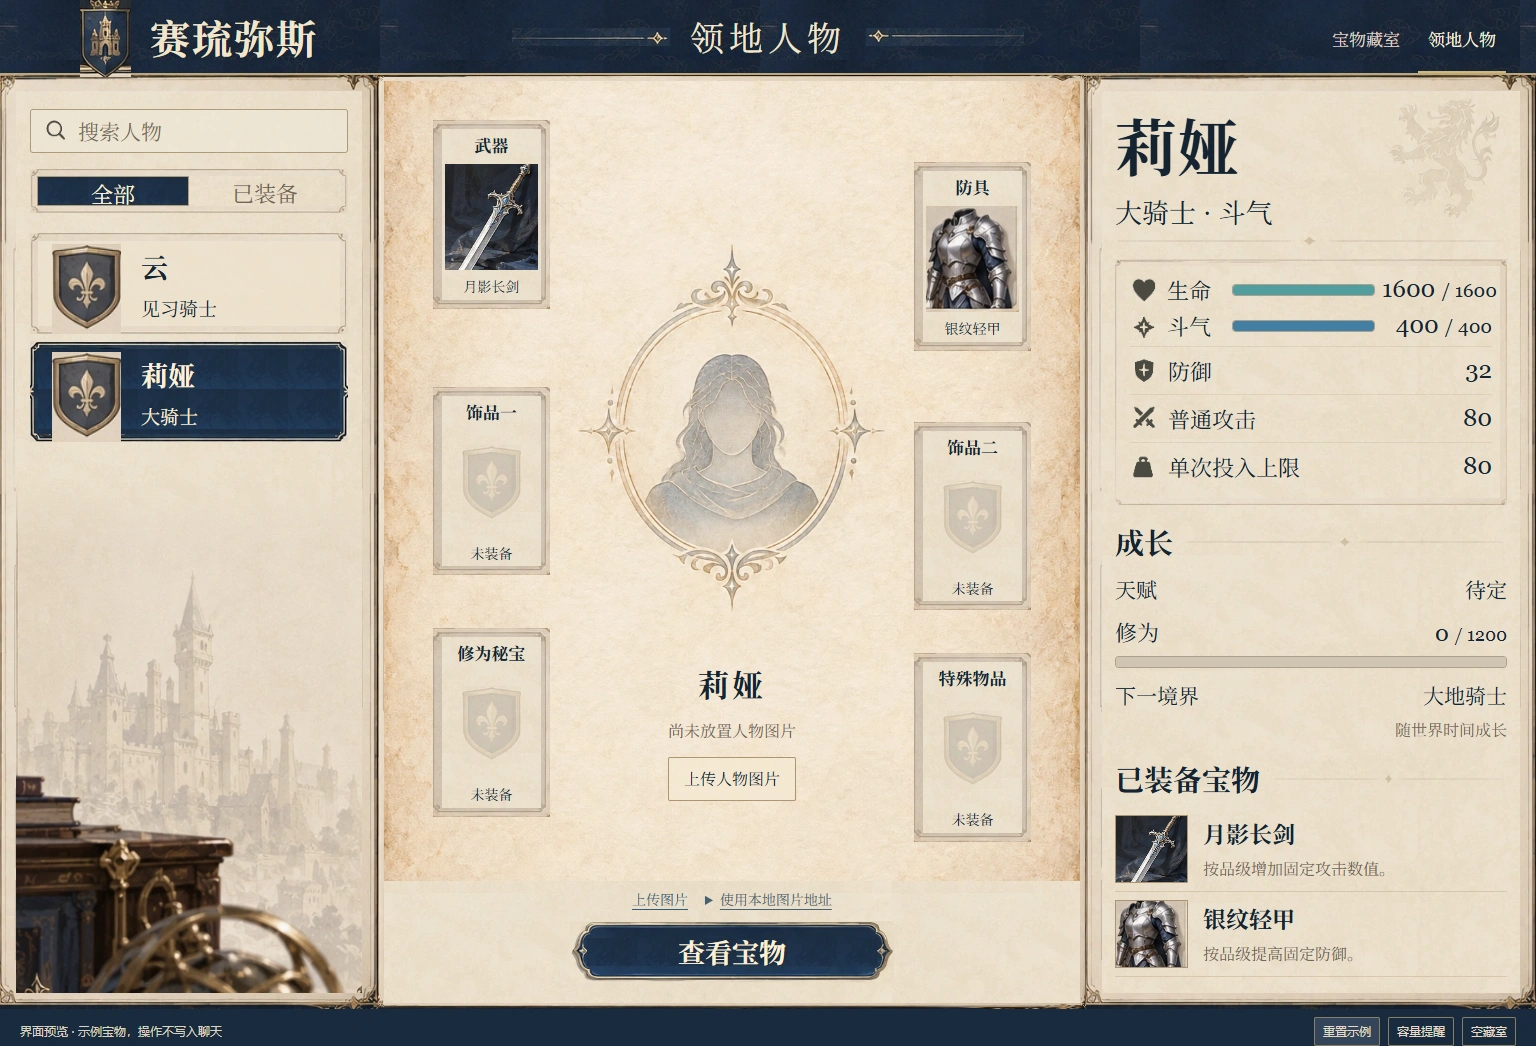
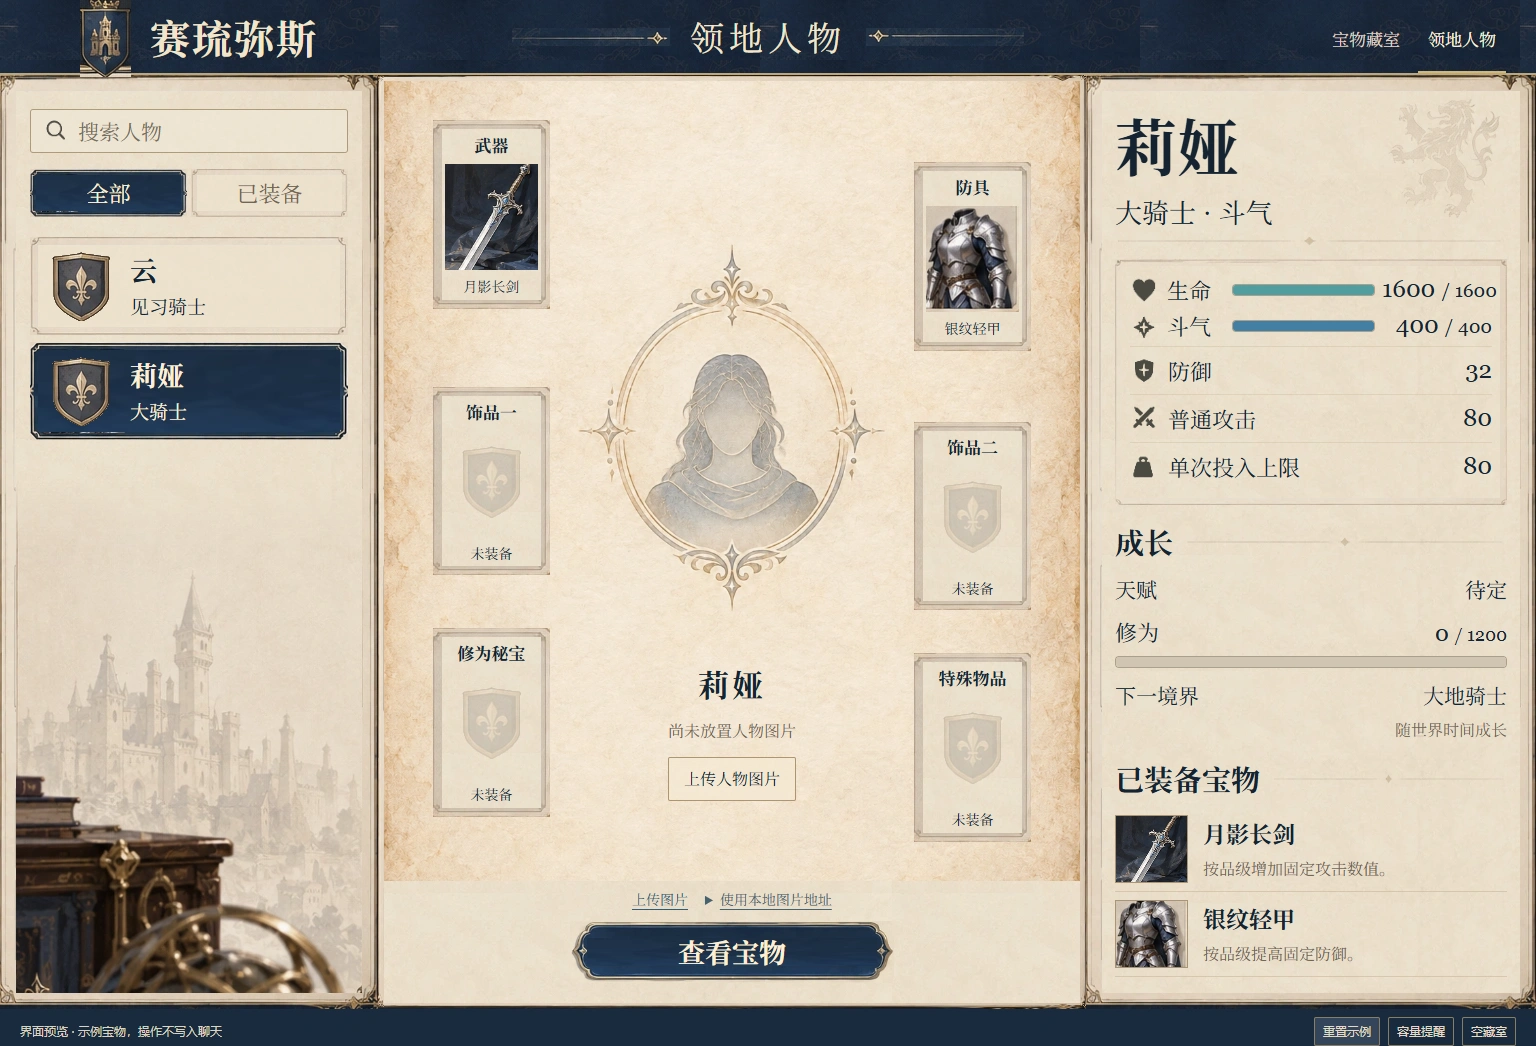
Fix roster selection frames and recipient text clipping

Changed region(s): [[0.0, 0.153, 0.2188, 0.4283]]

diff --git a/dist/角色卡玩法规则包/界面/人物与宝物/style.css b/dist/角色卡玩法规则包/界面/人物与宝物/style.css
@@ -534,8 +534,10 @@ a {
 }
 .item-actions select {
   width: 100%;
-  height: calc(59 * var(--u));
+  height: auto;
   font-size: calc(24 * var(--u));
+  line-height: 1.4;
+  padding-block: calc(12 * var(--u));
   padding-left: calc(56 * var(--u));
   background: #f0e6d2b3 url('./assets/icon-person.webp') calc(16 * var(--u)) center/calc(30 * var(--u)) auto no-repeat;
   margin-bottom: calc(5 * var(--u));
@@ -543,7 +545,7 @@ a {
 .ornate-button {
   border: calc(21 * var(--u)) solid transparent;
   border-image: url('./assets/button-frame.webp') 23 stretch;
-  background: #213c53 url('./assets/blue-button.webp') repeat;
+  background: #213c53 url('./assets/blue-button.webp') center / 100% 100% no-repeat;
   color: #fff0d5;
   font-size: calc(30 * var(--u));
   line-height: 1.05;
@@ -672,25 +674,30 @@ a {
   background-position: calc(13 * var(--u)) center;
 }
 .roster-tabs {
-  display: flex;
+  display: grid;
+  grid-template-columns: repeat(2, minmax(0, 1fr));
+  gap: calc(4 * var(--u));
   margin: calc(16 * var(--u)) 0 calc(20 * var(--u));
-  border: 7px solid transparent;
-  border-image: url('./assets/roster-frame.webp') 8 stretch;
 }
 .roster-tabs button {
-  width: 50%;
-  background: transparent;
+  display: grid;
+  place-items: center;
+  padding: calc(5 * var(--u)) calc(8 * var(--u));
+  border: calc(6 * var(--u)) solid transparent;
+  border-image: url('./assets/roster-frame.webp') 8 stretch;
+  background: #eee3cf99;
   color: var(--muted);
   font-size: calc(22 * var(--u));
-  height: calc(30 * var(--u));
+  line-height: 1.2;
 }
 .roster-tabs button[aria-pressed='true'] {
-  background: #314859 url('./assets/blue-button.webp') repeat;
+  background: #314859 url('./assets/blue-button.webp') center / 100% 100% no-repeat;
   color: #fff0d5;
-  border: 1px solid #b29a72;
+  border-image-source: url('./assets/row-frame.webp');
 }
 .person-row {
-  display: flex;
+  display: grid;
+  grid-template-columns: calc(58 * var(--u)) minmax(0, 1fr);
   align-items: center;
   gap: calc(20 * var(--u));
   width: 100%;
@@ -700,19 +707,18 @@ a {
   background: #eee3cf99;
   margin: 0 0 calc(7 * var(--u));
   padding: calc(6 * var(--u)) calc(14 * var(--u));
-  height: calc(101 * var(--u));
 }
 .person-row.active {
-  background: #294358 url('./assets/blue-button.webp') repeat;
+  background: #294358 url('./assets/blue-button.webp') center / 100% 100% no-repeat;
   color: #ffefd5;
   border-image: url('./assets/row-frame.webp') 8 stretch;
 }
 .person-avatar {
   display: grid;
   place-items: center;
-  width: calc(69 * var(--u));
-  height: calc(80 * var(--u));
-  flex: none;
+  width: 100%;
+  aspect-ratio: 58 / 70;
+  overflow: hidden;
 }
 .person-avatar img {
   width: 100%;
@@ -726,11 +732,13 @@ a {
 .person-row strong {
   display: block;
   font-size: calc(27 * var(--u));
-  margin-bottom: 8px;
+  margin-bottom: calc(8 * var(--u));
+  line-height: 1.2;
 }
 .person-row small {
   display: block;
   font-size: calc(19 * var(--u));
+  line-height: 1.3;
 }
 .roster-empty {
   font-size: 15px;
@@ -1429,7 +1437,7 @@ progress::-moz-progress-bar {
     font-size: 21px;
   }
   .item-actions select {
-    height: 52px;
+    padding-block: 10px;
     padding-left: 48px;
     background-position: 13px center;
     background-size: 26px auto;
@@ -1480,22 +1488,22 @@ progress::-moz-progress-bar {
   .roster-tabs {
     grid-column: 1/-1;
     margin: 4px 0;
-    border-width: 6px;
+    gap: 6px;
   }
   .roster-tabs button {
     font-size: 17px;
-    height: 27px;
+    padding: 7px;
+    border-width: 6px;
   }
   .person-row {
-    height: 80px;
-    padding: 4px 5px;
+    grid-template-columns: 40px minmax(0, 1fr);
+    padding: 9px 5px;
     border-width: 7px;
     gap: 10px;
     margin: 0;
   }
   .person-avatar {
     width: 40px;
-    height: 57px;
   }
   .person-row strong {
     font-size: 23px;

diff --git a/赛琉弥斯角色卡/src/角色卡玩法规则包/界面/人物与宝物/style.css b/赛琉弥斯角色卡/src/角色卡玩法规则包/界面/人物与宝物/style.css
@@ -534,8 +534,10 @@ a {
 }
 .item-actions select {
   width: 100%;
-  height: calc(59 * var(--u));
+  height: auto;
   font-size: calc(24 * var(--u));
+  line-height: 1.4;
+  padding-block: calc(12 * var(--u));
   padding-left: calc(56 * var(--u));
   background: #f0e6d2b3 url('./assets/icon-person.webp') calc(16 * var(--u)) center/calc(30 * var(--u)) auto no-repeat;
   margin-bottom: calc(5 * var(--u));
@@ -543,7 +545,7 @@ a {
 .ornate-button {
   border: calc(21 * var(--u)) solid transparent;
   border-image: url('./assets/button-frame.webp') 23 stretch;
-  background: #213c53 url('./assets/blue-button.webp') repeat;
+  background: #213c53 url('./assets/blue-button.webp') center / 100% 100% no-repeat;
   color: #fff0d5;
   font-size: calc(30 * var(--u));
   line-height: 1.05;
@@ -672,25 +674,30 @@ a {
   background-position: calc(13 * var(--u)) center;
 }
 .roster-tabs {
-  display: flex;
+  display: grid;
+  grid-template-columns: repeat(2, minmax(0, 1fr));
+  gap: calc(4 * var(--u));
   margin: calc(16 * var(--u)) 0 calc(20 * var(--u));
-  border: 7px solid transparent;
-  border-image: url('./assets/roster-frame.webp') 8 stretch;
 }
 .roster-tabs button {
-  width: 50%;
-  background: transparent;
+  display: grid;
+  place-items: center;
+  padding: calc(5 * var(--u)) calc(8 * var(--u));
+  border: calc(6 * var(--u)) solid transparent;
+  border-image: url('./assets/roster-frame.webp') 8 stretch;
+  background: #eee3cf99;
   color: var(--muted);
   font-size: calc(22 * var(--u));
-  height: calc(30 * var(--u));
+  line-height: 1.2;
 }
 .roster-tabs button[aria-pressed='true'] {
-  background: #314859 url('./assets/blue-button.webp') repeat;
+  background: #314859 url('./assets/blue-button.webp') center / 100% 100% no-repeat;
   color: #fff0d5;
-  border: 1px solid #b29a72;
+  border-image-source: url('./assets/row-frame.webp');
 }
 .person-row {
-  display: flex;
+  display: grid;
+  grid-template-columns: calc(58 * var(--u)) minmax(0, 1fr);
   align-items: center;
   gap: calc(20 * var(--u));
   width: 100%;
@@ -700,19 +707,18 @@ a {
   background: #eee3cf99;
   margin: 0 0 calc(7 * var(--u));
   padding: calc(6 * var(--u)) calc(14 * var(--u));
-  height: calc(101 * var(--u));
 }
 .person-row.active {
-  background: #294358 url('./assets/blue-button.webp') repeat;
+  background: #294358 url('./assets/blue-button.webp') center / 100% 100% no-repeat;
   color: #ffefd5;
   border-image: url('./assets/row-frame.webp') 8 stretch;
 }
 .person-avatar {
   display: grid;
   place-items: center;
-  width: calc(69 * var(--u));
-  height: calc(80 * var(--u));
-  flex: none;
+  width: 100%;
+  aspect-ratio: 58 / 70;
+  overflow: hidden;
 }
 .person-avatar img {
   width: 100%;
@@ -726,11 +732,13 @@ a {
 .person-row strong {
   display: block;
   font-size: calc(27 * var(--u));
-  margin-bottom: 8px;
+  margin-bottom: calc(8 * var(--u));
+  line-height: 1.2;
 }
 .person-row small {
   display: block;
   font-size: calc(19 * var(--u));
+  line-height: 1.3;
 }
 .roster-empty {
   font-size: 15px;
@@ -1429,7 +1437,7 @@ progress::-moz-progress-bar {
     font-size: 21px;
   }
   .item-actions select {
-    height: 52px;
+    padding-block: 10px;
     padding-left: 48px;
     background-position: 13px center;
     background-size: 26px auto;
@@ -1480,22 +1488,22 @@ progress::-moz-progress-bar {
   .roster-tabs {
     grid-column: 1/-1;
     margin: 4px 0;
-    border-width: 6px;
+    gap: 6px;
   }
   .roster-tabs button {
     font-size: 17px;
-    height: 27px;
+    padding: 7px;
+    border-width: 6px;
   }
   .person-row {
-    height: 80px;
-    padding: 4px 5px;
+    grid-template-columns: 40px minmax(0, 1fr);
+    padding: 9px 5px;
     border-width: 7px;
     gap: 10px;
     margin: 0;
   }
   .person-avatar {
     width: 40px;
-    height: 57px;
   }
   .person-row strong {
     font-size: 23px;

diff --git a/赛琉弥斯角色卡/src/角色卡玩法规则包/界面/人物与宝物/README.md b/赛琉弥斯角色卡/src/角色卡玩法规则包/界面/人物与宝物/README.md
@@ -46,8 +46,13 @@ node '赛琉弥斯角色卡/tools/serve-treasure-ui.mjs'
 `assets/sources.json`
 保存 46 份裁剪的来源、坐标和透明区域；另有一张已确认的女性人物徽记。外框、纸面、织物、徽记、物件、书桌、分类图标与按钮取自已选概念图。边框图片挖空中央，文字、数量和状态由 HTML 渲染；没有 SVG 或内嵌图片。
 
-47 张运行时图片统一采用 WebP 质量 95，保留原尺寸与透明通道，总计 789,504 字节，较 PNG 工作图减少 83.9%。编码参数与逐张尺寸见
+47 张运行时图片统一采用 WebP 质量 95，保留原尺寸与透明通道，总计 789,420 字节，较 PNG 工作图减少 83.9%。编码参数与逐张尺寸见
 `assets/webp-manifest.json`。源码资源与发布目录均只提交 WebP；原始概念 PNG、裁剪工作 PNG、用户上传图和浏览器缓存保留在本地，不随本次交付提交。WebP 已齐备，正常构建无需重新裁剪或生图。
+
+名册徽章已去除与图片边缘连通的纸面背景，筛选选中框与人物行分别完整显示；蓝色底纹单次铺满，避免重复接缝。使用对象下拉框按文字和内边距自然撑高，窄窗口下也完整显示文字。
+
+素材限制：当前除晶石有独立详情图外，其他物件详情仍复用小裁图，清灵秘露仅 148×168 像素。放大后的模糊来自源图像素不足；WebP
+95 不提高源分辨率。需要保持大图展示时，应另补高清独立素材，本轮未额外生图。
 
 若需重新裁剪：
 
